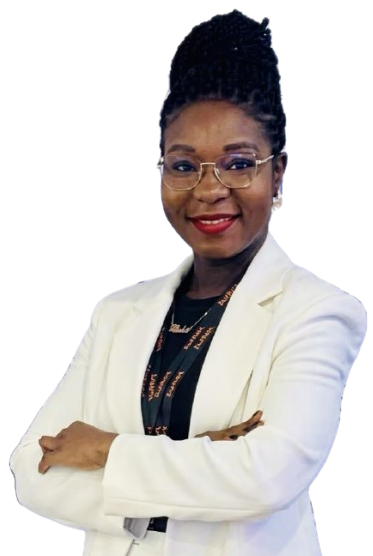
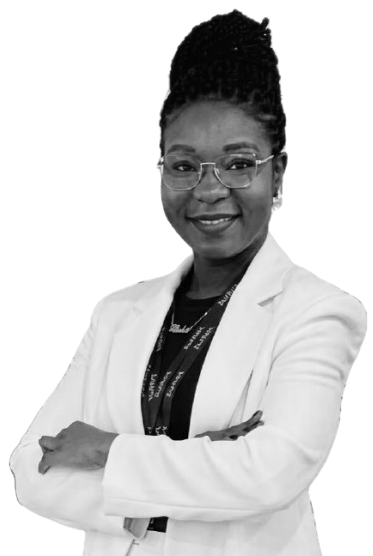
Atualiza fotos de Delfina Franco, Ana Teixeira e Sara Ferreira
Corrige tambem o poster do video do Hero, que ainda apontava para
banner_01.jpg (entretanto apagado), para Dubai_Emerald.jpeg.

diff --git a/client/src/components/HeroSection.tsx b/client/src/components/HeroSection.tsx
@@ -12,7 +12,7 @@ const slides: BackgroundSlide[] = [
   {
     type: "video",
     src: "/videos/banner_video.mp4",
-    poster: "/imagens/banner_01.jpg",
+    poster: "/imagens/Dubai_Emerald.jpeg",
     duration: 12000,
   },
   {
